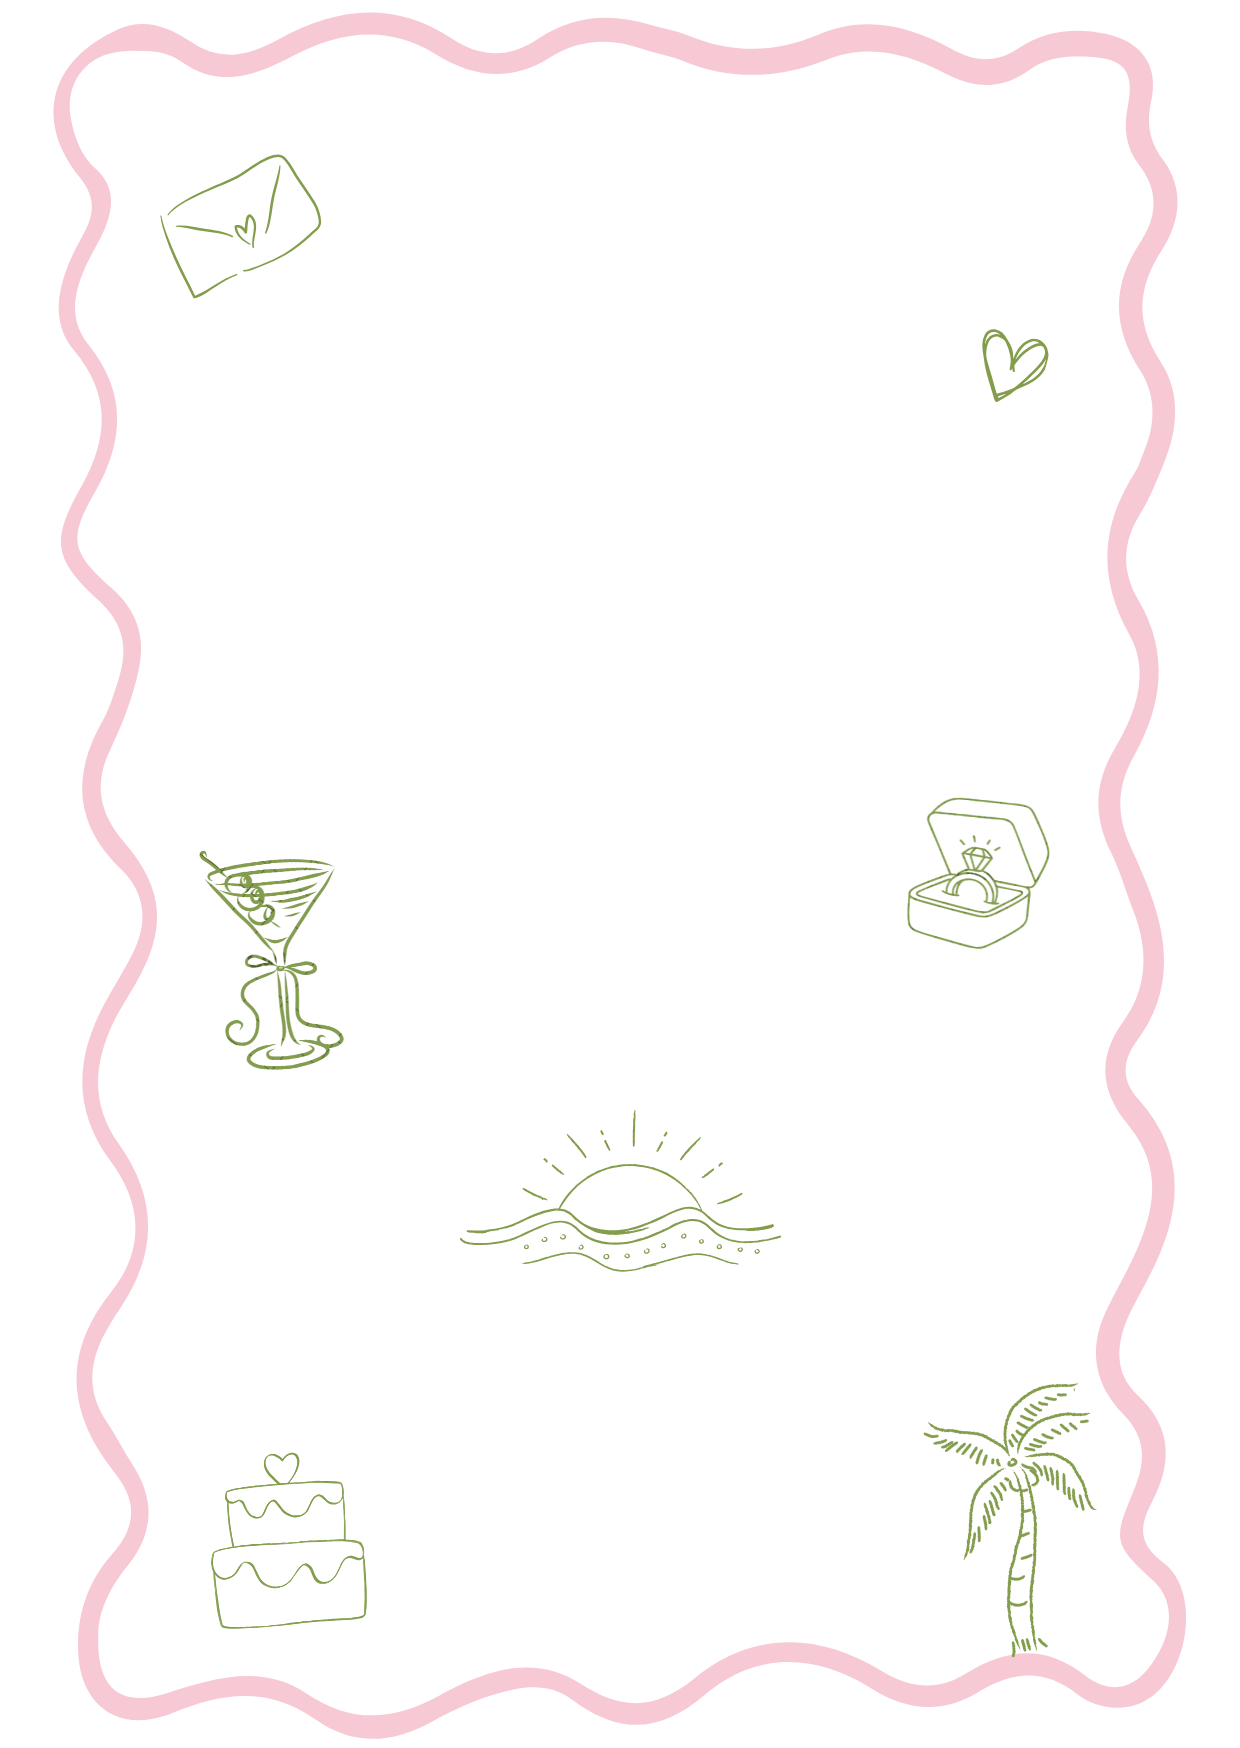
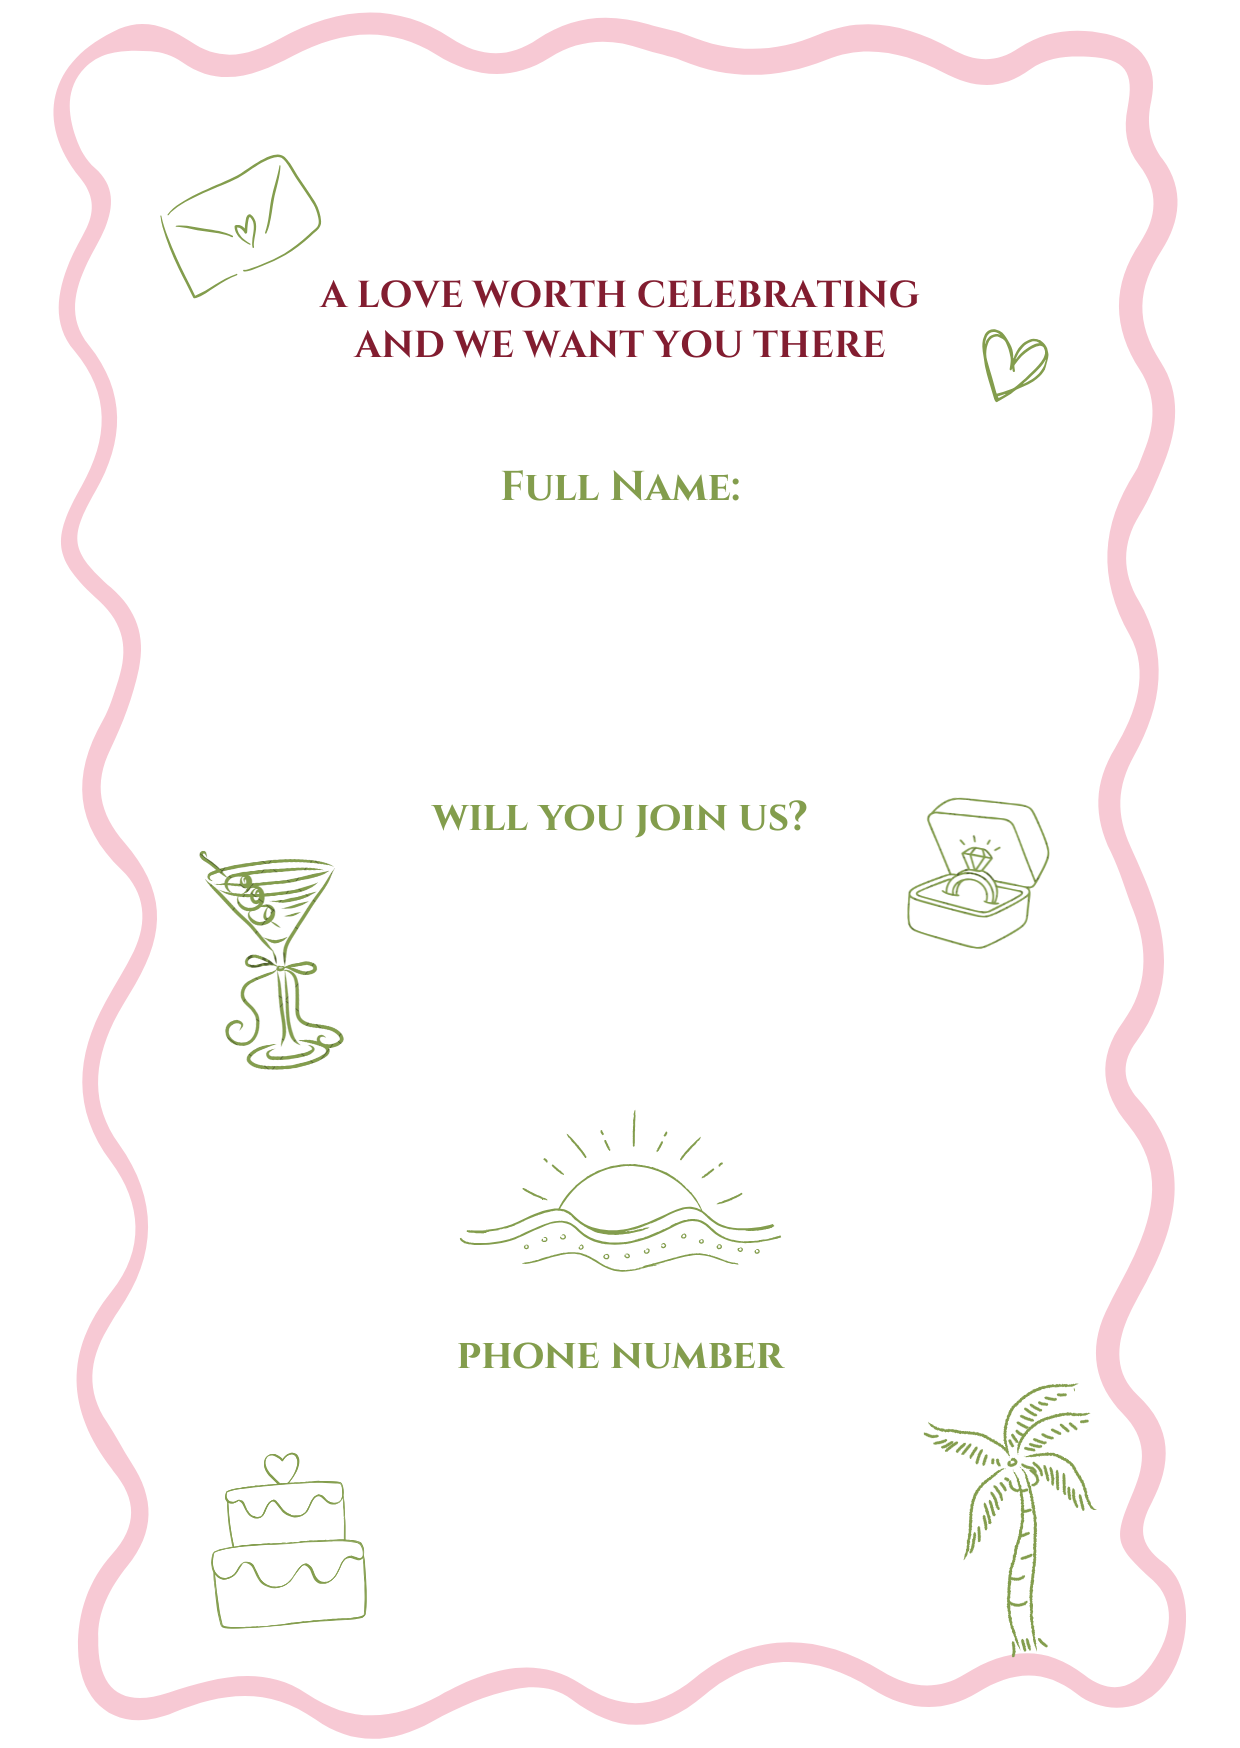
added the labels to the background and only left the inputs in the form

diff --git a/src/components/Rsvp.jsx b/src/components/Rsvp.jsx
@@ -26,26 +26,26 @@ function Rsvp({visibility}) {
       {/* Form Overlay */}
       <form
         onSubmit={handleSubmit}
-        className="absolute top-0 left-0 w-full h-full text-center"
+        className="absolute top-0 left-0 w-full h-full text-center items-center flex flex-col"
       >
-        <h2 className="absolute top-[15%] left-[25%] text-xs font-cinzel font-bold text-[#821d30] tracking-wide sm:text-2xl">
-          A Love Worth Celebrating <br /> And We Want You There
-        </h2>
+        {/* <h2 className="absolute top-[15%] left-[25%] text-xs font-cinzel font-bold text-[#821d30] tracking-wide sm:text-2xl">
+          A LOVE WORTH CELEBRATING <br /> AND WE WANT YOU THERE
+        </h2> */}
 
-        <div className="absolute top-[26%] left-[22%] w-full max-w-[56%] flex flex-col space-y-4">
-          <label className="text-[#839d4d] text-xs font-cinzel font-semibold">Full Name:</label>
+        <div className="absolute top-[30%] max-w-[56%] flex flex-col space-y-4">
+          {/* <label className="text-[#839d4d] text-xs font-cinzel font-semibold">Full Name:</label> */}
           <input
             name="name"
             value={form.name}
             onChange={handleChange}
             placeholder="Your full name"
-            className="w-full px-4 py-2 border-2 border-[#839d4d] rounded-lg text-center text-xs font-cinzel text-[#dba6b1] font-bold"
+            className="py-2 border-2 border-[#839d4d] rounded-lg text-center text-xs font-cinzel text-[#dba6b1] font-bold"
             required
           />
         </div>
 
-        <div className="absolute top-[45%] left-[20%] w-full max-w-[60%] flex flex-col space-y-4 items-center">
-          <label className="text-[#839d4d] text-xs font-cinzel font-semibold">Will you join us?</label>
+        <div className="absolute top-[50%] w-full max-w-[60%] flex flex-col space-y-4 items-center">
+          {/* <label className="text-[#839d4d] text-xs font-cinzel font-semibold">Will you join us?</label> */}
           <div className="flex flex-col space-y-1 max-w-[70%]">
             <button
               type="button"
@@ -70,8 +70,8 @@ function Rsvp({visibility}) {
           </div>
         </div>
 
-        <div className="absolute top-[76%] left-[22%] w-full max-w-[56%] flex flex-col space-y-1 items-center">
-          <label className="text-[#839d4d] text-xs font-cinzel font-semibold">Phone Number:</label>
+        <div className="absolute top-[80%] w-full max-w-[56%] flex flex-col space-y-1 items-center">
+          {/* <label className="text-[#839d4d] text-xs font-cinzel font-semibold">Phone :</label> */}
           <input
             name="phone"
             value={form.phone}
@@ -84,7 +84,7 @@ function Rsvp({visibility}) {
 
         <button
           type="submit"
-          className="absolute top-[89%] left-[21%] w-full max-w-[57%] text-sm font-cinzel font-bold text-[#821d30]"
+          className="absolute top-[89%] w-full max-w-[57%] text-sm font-cinzel font-bold text-[#821d30]"
         >
           Submit
         </button>
